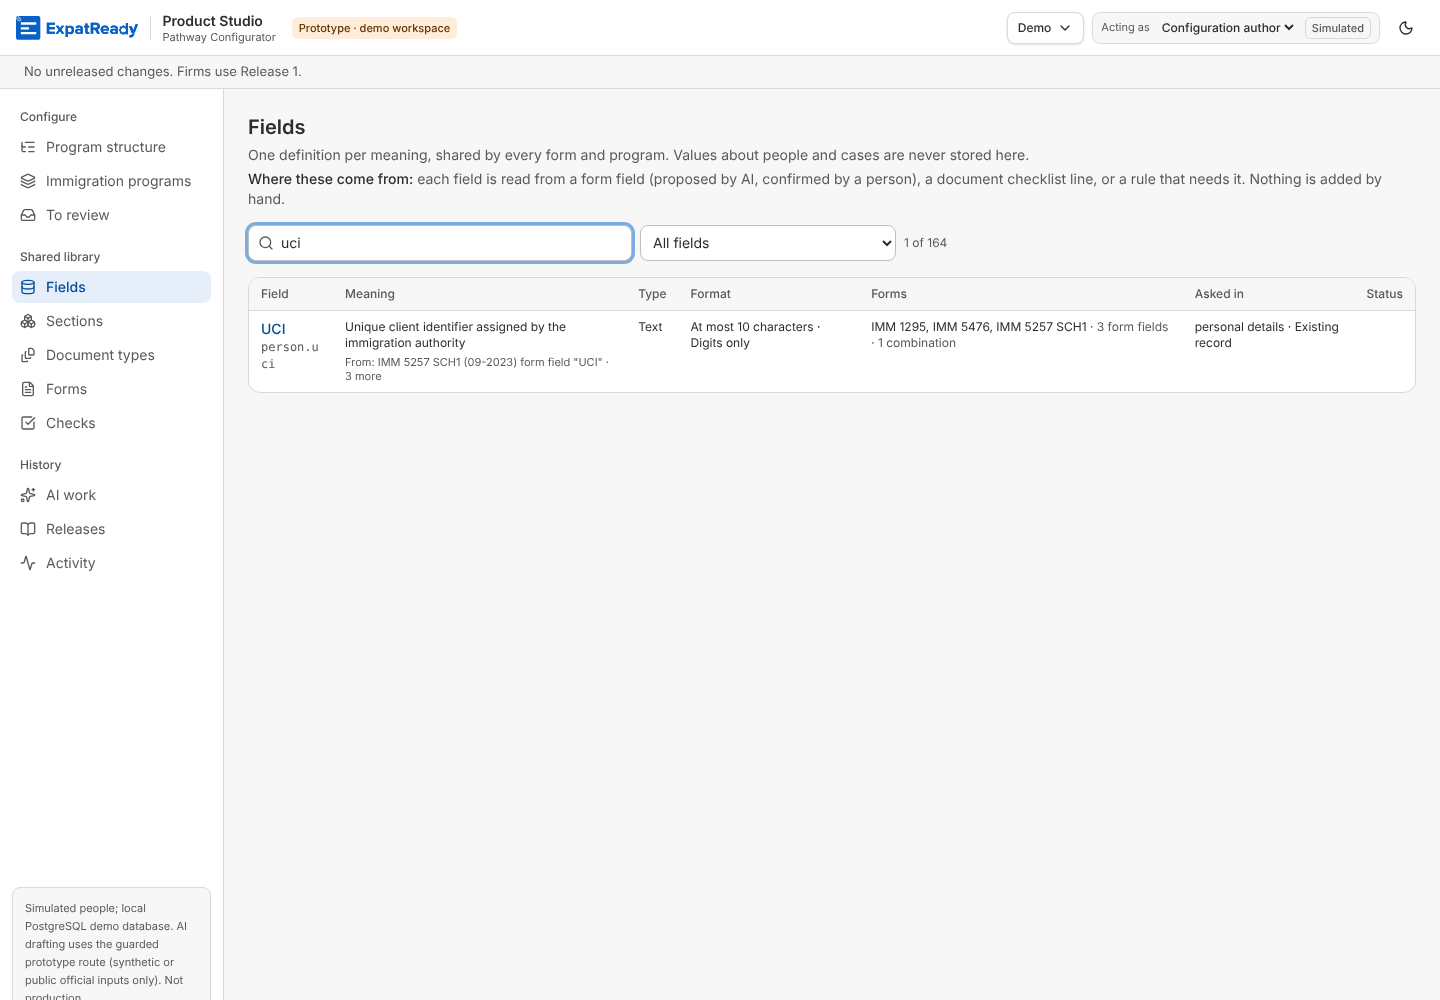
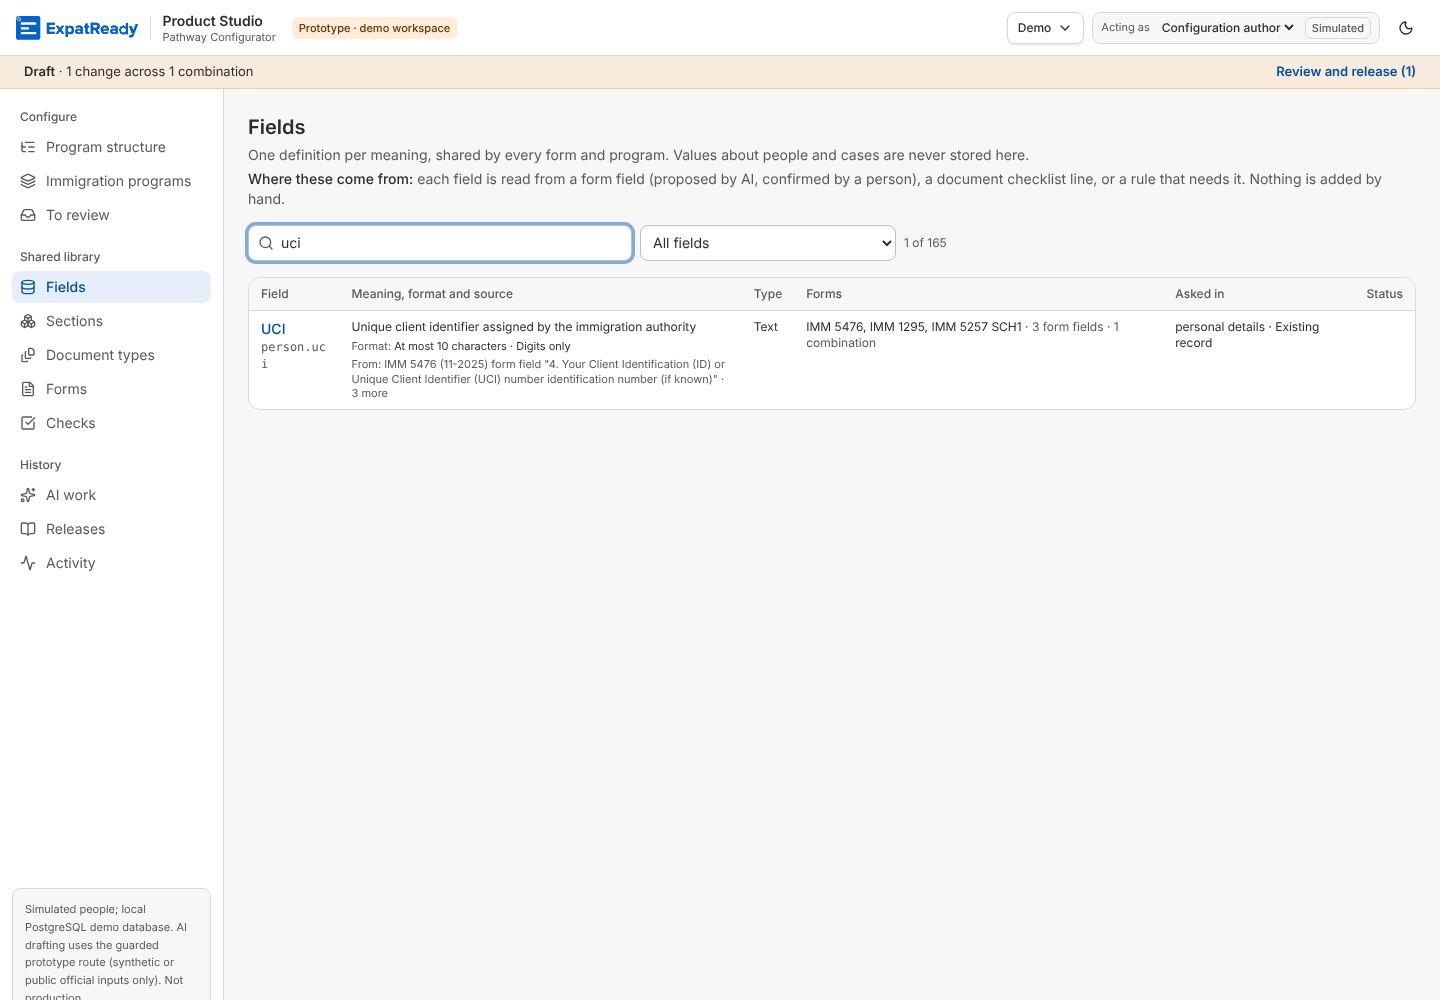
C3.1: the format line sits under the meaning, so the Fields table fits at 1024 px (QA-39)
check_s6_library_pages_browser.cjs 33/33.

Claude-Session: https://claude.ai/code/session_01Ln6TiRzhE7cT9bhNiHZ8Sw

Changed region(s): [[0.0, 0.031, 1.0, 0.093], [0.2188, 0.279, 0.9375, 0.403], [0.0, 0.899, 0.125, 0.961]]

diff --git a/ai-workers/problem-1-pathway-setup-and-form-filling/prototype/studio/web/src/pages/library.tsx b/ai-workers/problem-1-pathway-setup-and-form-filling/prototype/studio/web/src/pages/library.tsx
@@ -29,7 +29,7 @@ const SourceNote = ({ r }: { r: { source?: string | null; more_sources?: number;
   : <p data-source className="mt-1 text-[11px] text-text-muted">{r.source}{r.more_sources ? ` · ${r.more_sources} more` : ""}</p>;
 /** P-162 (C3.1): a field's format in the list, from its form fields; never blank (why there is none is said). */
 type FormatLine = { text: string | null; state: "read" | "none_on_form" | "not_read" | "no_form" };
-const FORMAT_NONE: Record<Exclude<FormatLine["state"], "read">, string> = { none_on_form: "No format on its forms", not_read: "Format: not read yet", no_form: "On no form" };
+const FORMAT_NONE: Record<Exclude<FormatLine["state"], "read">, string> = { none_on_form: "none on its forms", not_read: "not read yet", no_form: "on no form" };
 const FormatCell = ({ f }: { f?: FormatLine }) => f?.text ? <span data-format>{f.text}</span> : <span data-format className={f?.state === "not_read" ? "text-text-warn" : "text-text-muted"}>{FORMAT_NONE[(f?.state ?? "not_read") as Exclude<FormatLine["state"], "read">]}</span>;
 /** GET /library/fields/:key → format (engine/field-format.ts): each rule, the forms and boxes that say so, the quote. */
 type FieldFormatView = { rules: { check: string; words: string; part: string | null; part_words: string | null; sources: { form: string; box: string; quote: string | null; from: string }[] }[]; not_checked: { function: string; form: string; quote: string | null }[]; read: boolean };
@@ -53,8 +53,8 @@ export function FieldsPage() {
         <span className="text-xs text-text-muted">{rows.length} of {list.data?.length ?? 0}</span>
       </div>
       {list.isLoading ? <Spinner label="Loading fields" /> : !list.data?.length ? <EmptyState title="The library is empty" description="Load sample inputs, or add a form with AI drafting; reviewed fields land here." /> : (
-        <Table head={["Field", "Meaning", "Type and format", "Forms", "Asked in", "Status"]}>
-          {rows.slice(0, 400).map((f) => <tr key={f.key}><td><Link className="font-medium text-text-link hover:underline" to={`/library/fields/${encodeURIComponent(f.key)}`}>{f.name ?? fieldName(f.key)}</Link><p className="mono break-all text-[11px] text-text-muted">{f.key}</p></td><td className="max-w-md text-xs">{f.meaning}<SourceNote r={f} /></td><td className="max-w-40 text-xs">{TYPE_WORD[f.value_type] ?? f.value_type}<p className="mt-1 break-words text-[11px]"><FormatCell f={f.format} /></p></td><td className="text-xs">{f.forms.join(", ") || <span className="text-text-muted">none</span>}<span className="text-text-muted"> · {f.boxes} form field{f.boxes === 1 ? "" : "s"}{f.used_in?.length ? ` · ${f.used_in.length} combination${f.used_in.length === 1 ? "" : "s"}` : ""}</span></td><td className="text-xs">{f.placement ? `${f.placement.section.replace(/_/g, " ")} · ${collectedWord(f.placement.collected_from)}` : <span className="text-text-warn">not placed</span>}</td><td><ListPill origin={f.origin} status={f.status} /></td></tr>)}
+        <Table head={["Field", "Meaning, format and source", "Type", "Forms", "Asked in", "Status"]}>
+          {rows.slice(0, 400).map((f) => <tr key={f.key}><td><Link className="font-medium text-text-link hover:underline" to={`/library/fields/${encodeURIComponent(f.key)}`}>{f.name ?? fieldName(f.key)}</Link><p className="mono break-all text-[11px] text-text-muted">{f.key}</p></td><td className="max-w-md text-xs">{f.meaning}<p className="mt-1 text-[11px]"><span className="text-text-muted">Format: </span><FormatCell f={f.format} /></p><SourceNote r={f} /></td><td className="text-xs">{TYPE_WORD[f.value_type] ?? f.value_type}</td><td className="text-xs">{f.forms.join(", ") || <span className="text-text-muted">none</span>}<span className="text-text-muted"> · {f.boxes} form field{f.boxes === 1 ? "" : "s"}{f.used_in?.length ? ` · ${f.used_in.length} combination${f.used_in.length === 1 ? "" : "s"}` : ""}</span></td><td className="text-xs">{f.placement ? `${f.placement.section.replace(/_/g, " ")} · ${collectedWord(f.placement.collected_from)}` : <span className="text-text-warn">not placed</span>}</td><td><ListPill origin={f.origin} status={f.status} /></td></tr>)}
         </Table>
       )}
     </div>
